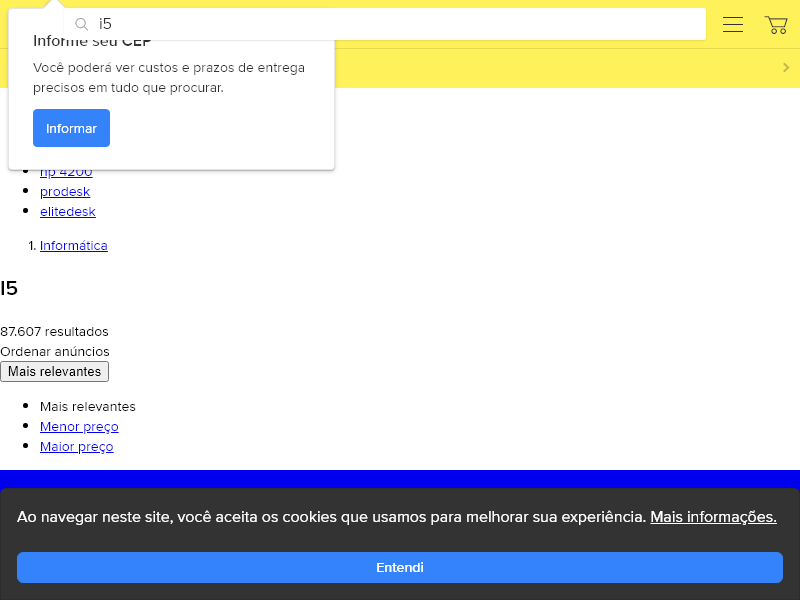
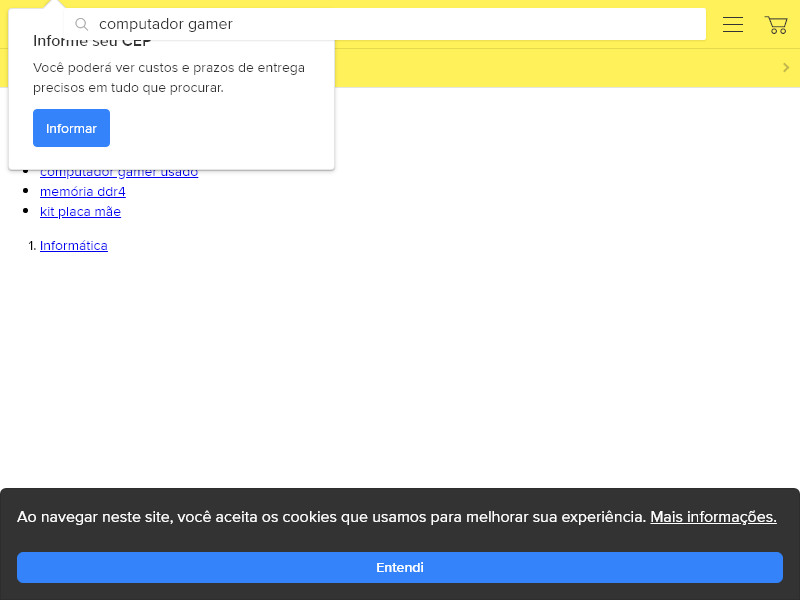
Added initial phase of dynamic search

diff --git a/searchSpecs.js b/searchSpecs.js
@@ -1,0 +1,88 @@
+//https://www.intel.com/content/www/us/en/products/processors/core/view-all.html?page=1
+
+const puppeteer = require('puppeteer');
+
+const Specs = { title: ['div.ui-search-result__wrapper > div.andes-card > a', 'title'],
+
+          url: ['div.ui-search-result__wrapper > div.andes-card > a', 'href'],
+
+          price: ['div.ui-search-result__wrapper > div.andes-card > a > div.ui-search-result__content-wrapper > \
+          div.ui-search-item__group > div.ui-search-price > div.ui-search-price__second-line > span.price-tag > span.price-tag-fraction', 'innerText']  };
+
+async function searchSpecs(specs){
+
+    
+
+    const browser = await puppeteer.launch({headless:true});
+    const page = await browser.newPage();
+
+    await page.setRequestInterception(true);
+
+    //if the page makes a  request to a resource type of image then abort that request
+    page.on('request', request => {
+      if (request.resourceType() === 'image' || request.resourceType() === 'stylesheet')
+        request.abort();
+      else
+        request.continue();
+    });
+
+    searchQuery = 'computador'; 
+
+
+    await page.goto('https://lista.mercadolivre.com.br/'+ searchQuery.replace("-", " ") + "#D" + "[" + searchQuery.replace("%20", " ") + "]");
+
+
+
+    await page.waitForSelector('li.ui-search-layout__item');
+
+    
+    const result = await page.evaluate((argSpecs) => { 
+      
+      
+      let dataAux = {};
+      let data = [];
+
+      var views = document.querySelectorAll('li.ui-search-layout__item');
+      let counter = 0;
+      
+      for(var view of views){
+        
+        for(var spec in argSpecs){
+          
+          
+          var value =  view.querySelector(argSpecs[spec][0]) ;
+          
+          
+          if(value != null ){
+             value = value[argSpecs[spec][1]];
+
+
+            }
+            else { value = "Not found";  }
+          
+          dataAux[spec] =  value;
+        };
+        
+        data.push(dataAux);
+        dataAux = {};
+        
+      };
+      
+      return data;
+     
+    }, specs);
+    
+    
+    
+    console.log(result);
+
+
+    await browser.close();
+
+    return result;
+};
+
+searchSpecs(Specs);
+
+
+//module.exports = searchSpecs;

diff --git a/search.js b/search.js
@@ -1,5 +1,4 @@
 const express = require('express');
-const puppeteer = require('puppeteer');
 const app = express();
 const port = 3000;
 
@@ -12,7 +11,7 @@ app.get('/search-market', (req, res) => {
 
     if(searchQuery != null){
 
-        searchMercado(searchQuery)
+        searchMercado()
         .then(results => {
             res.status(200);
             res.json(results);
